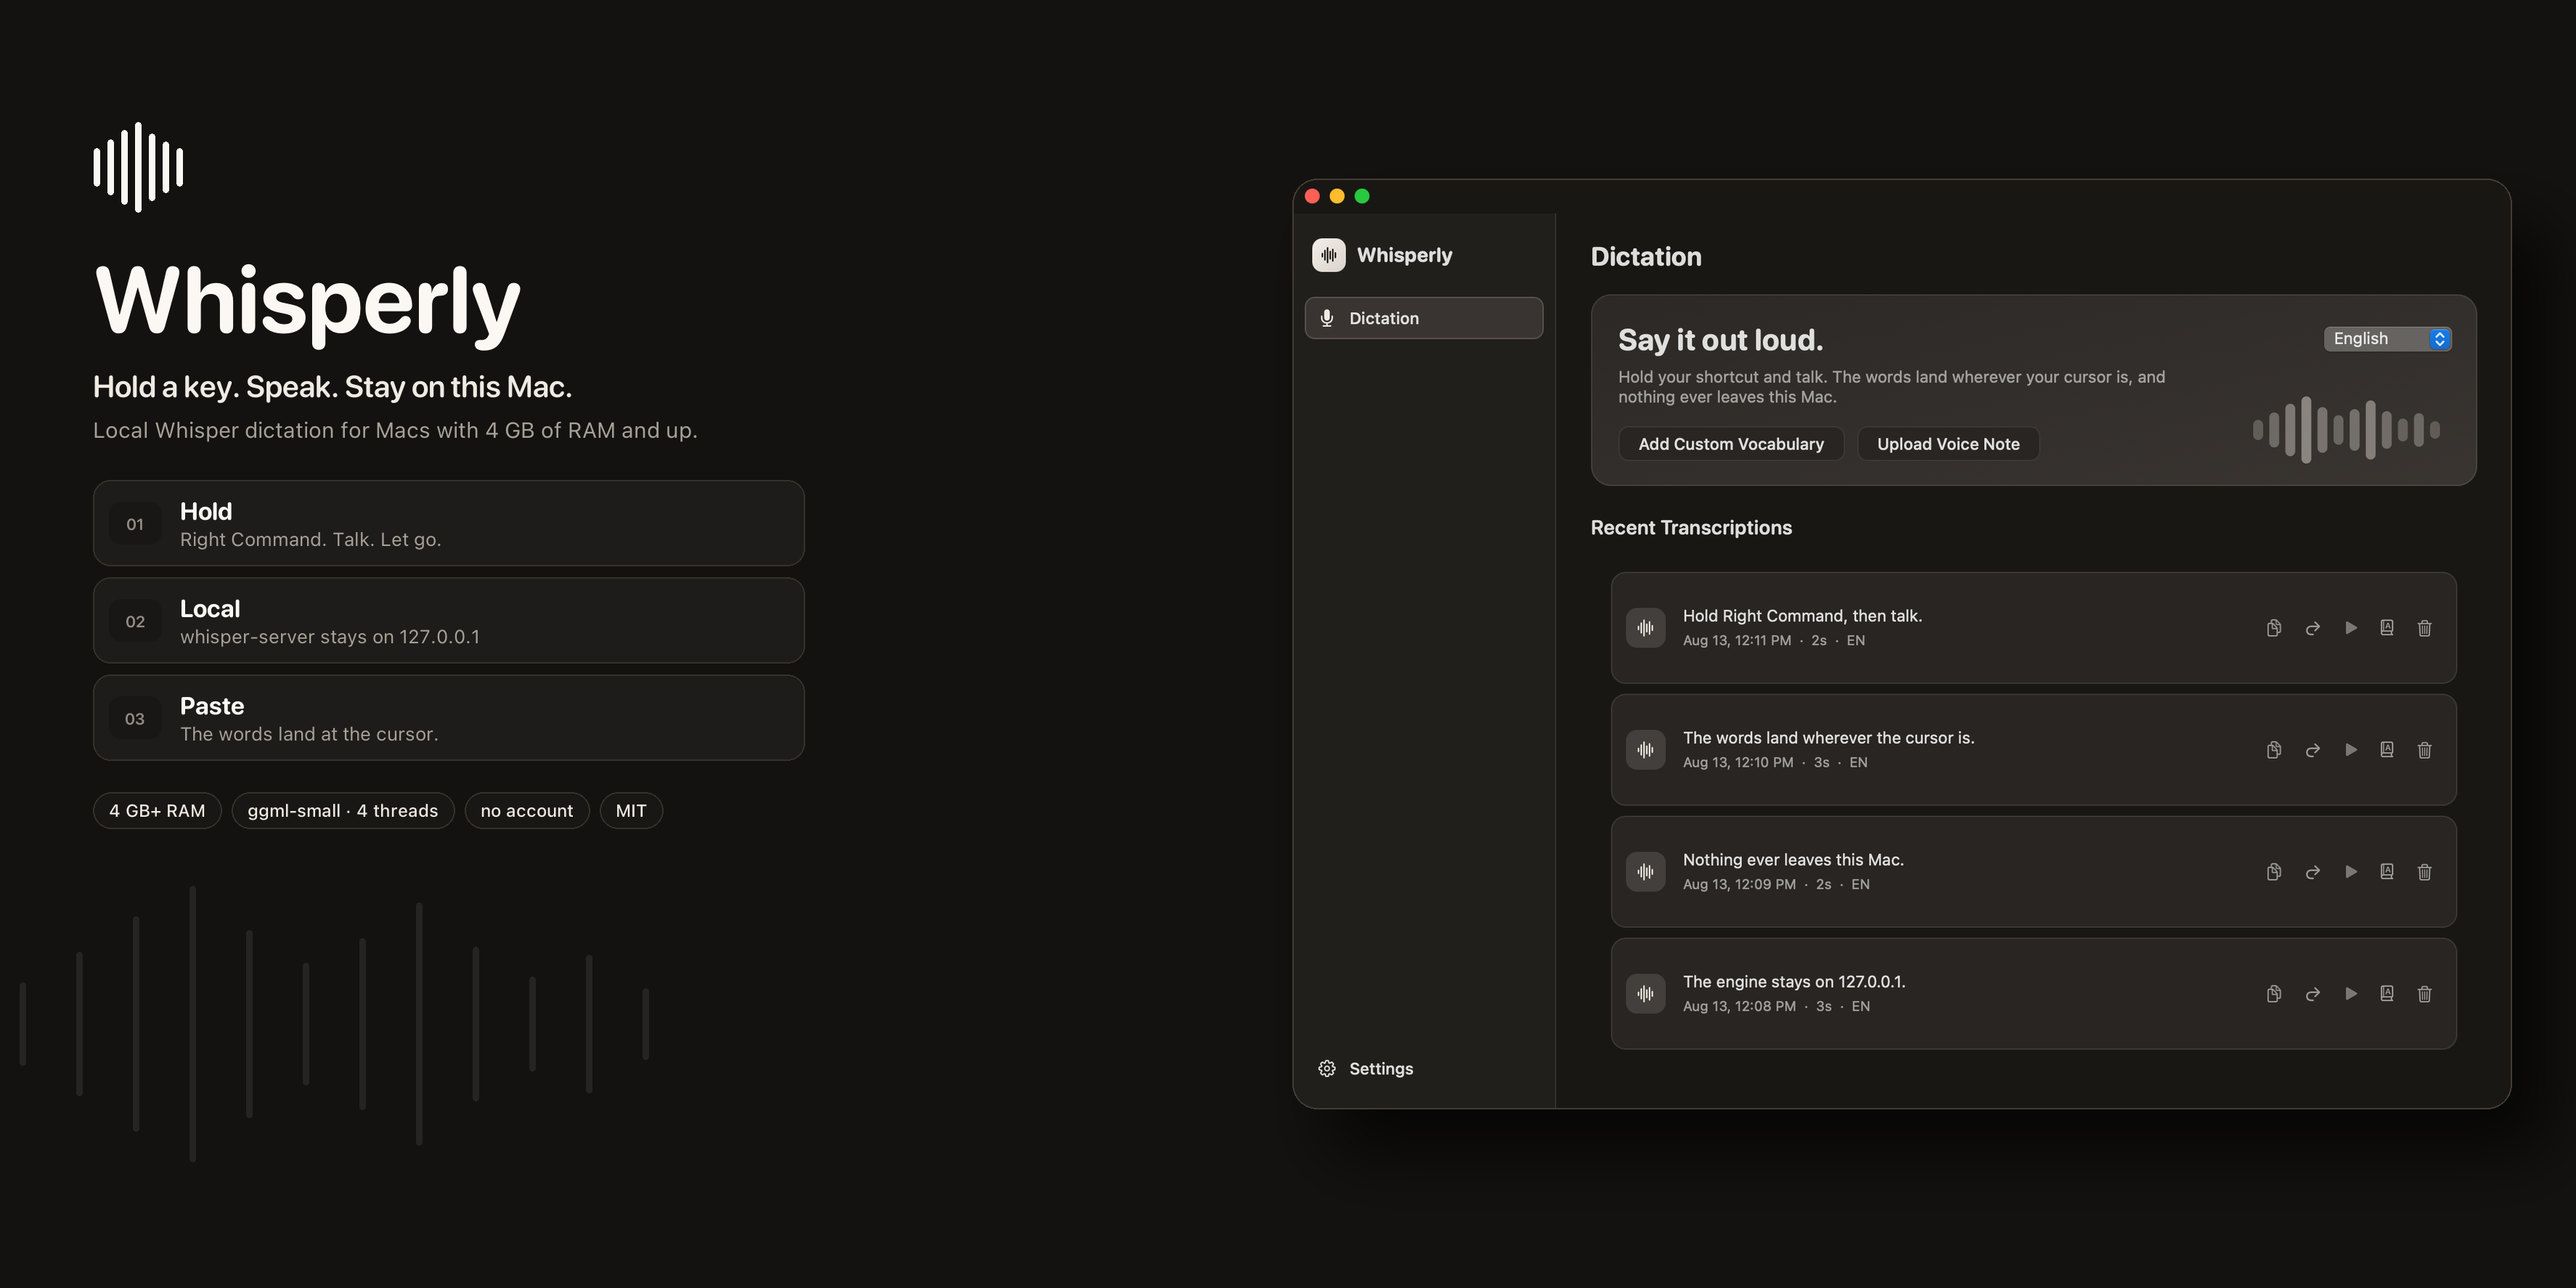
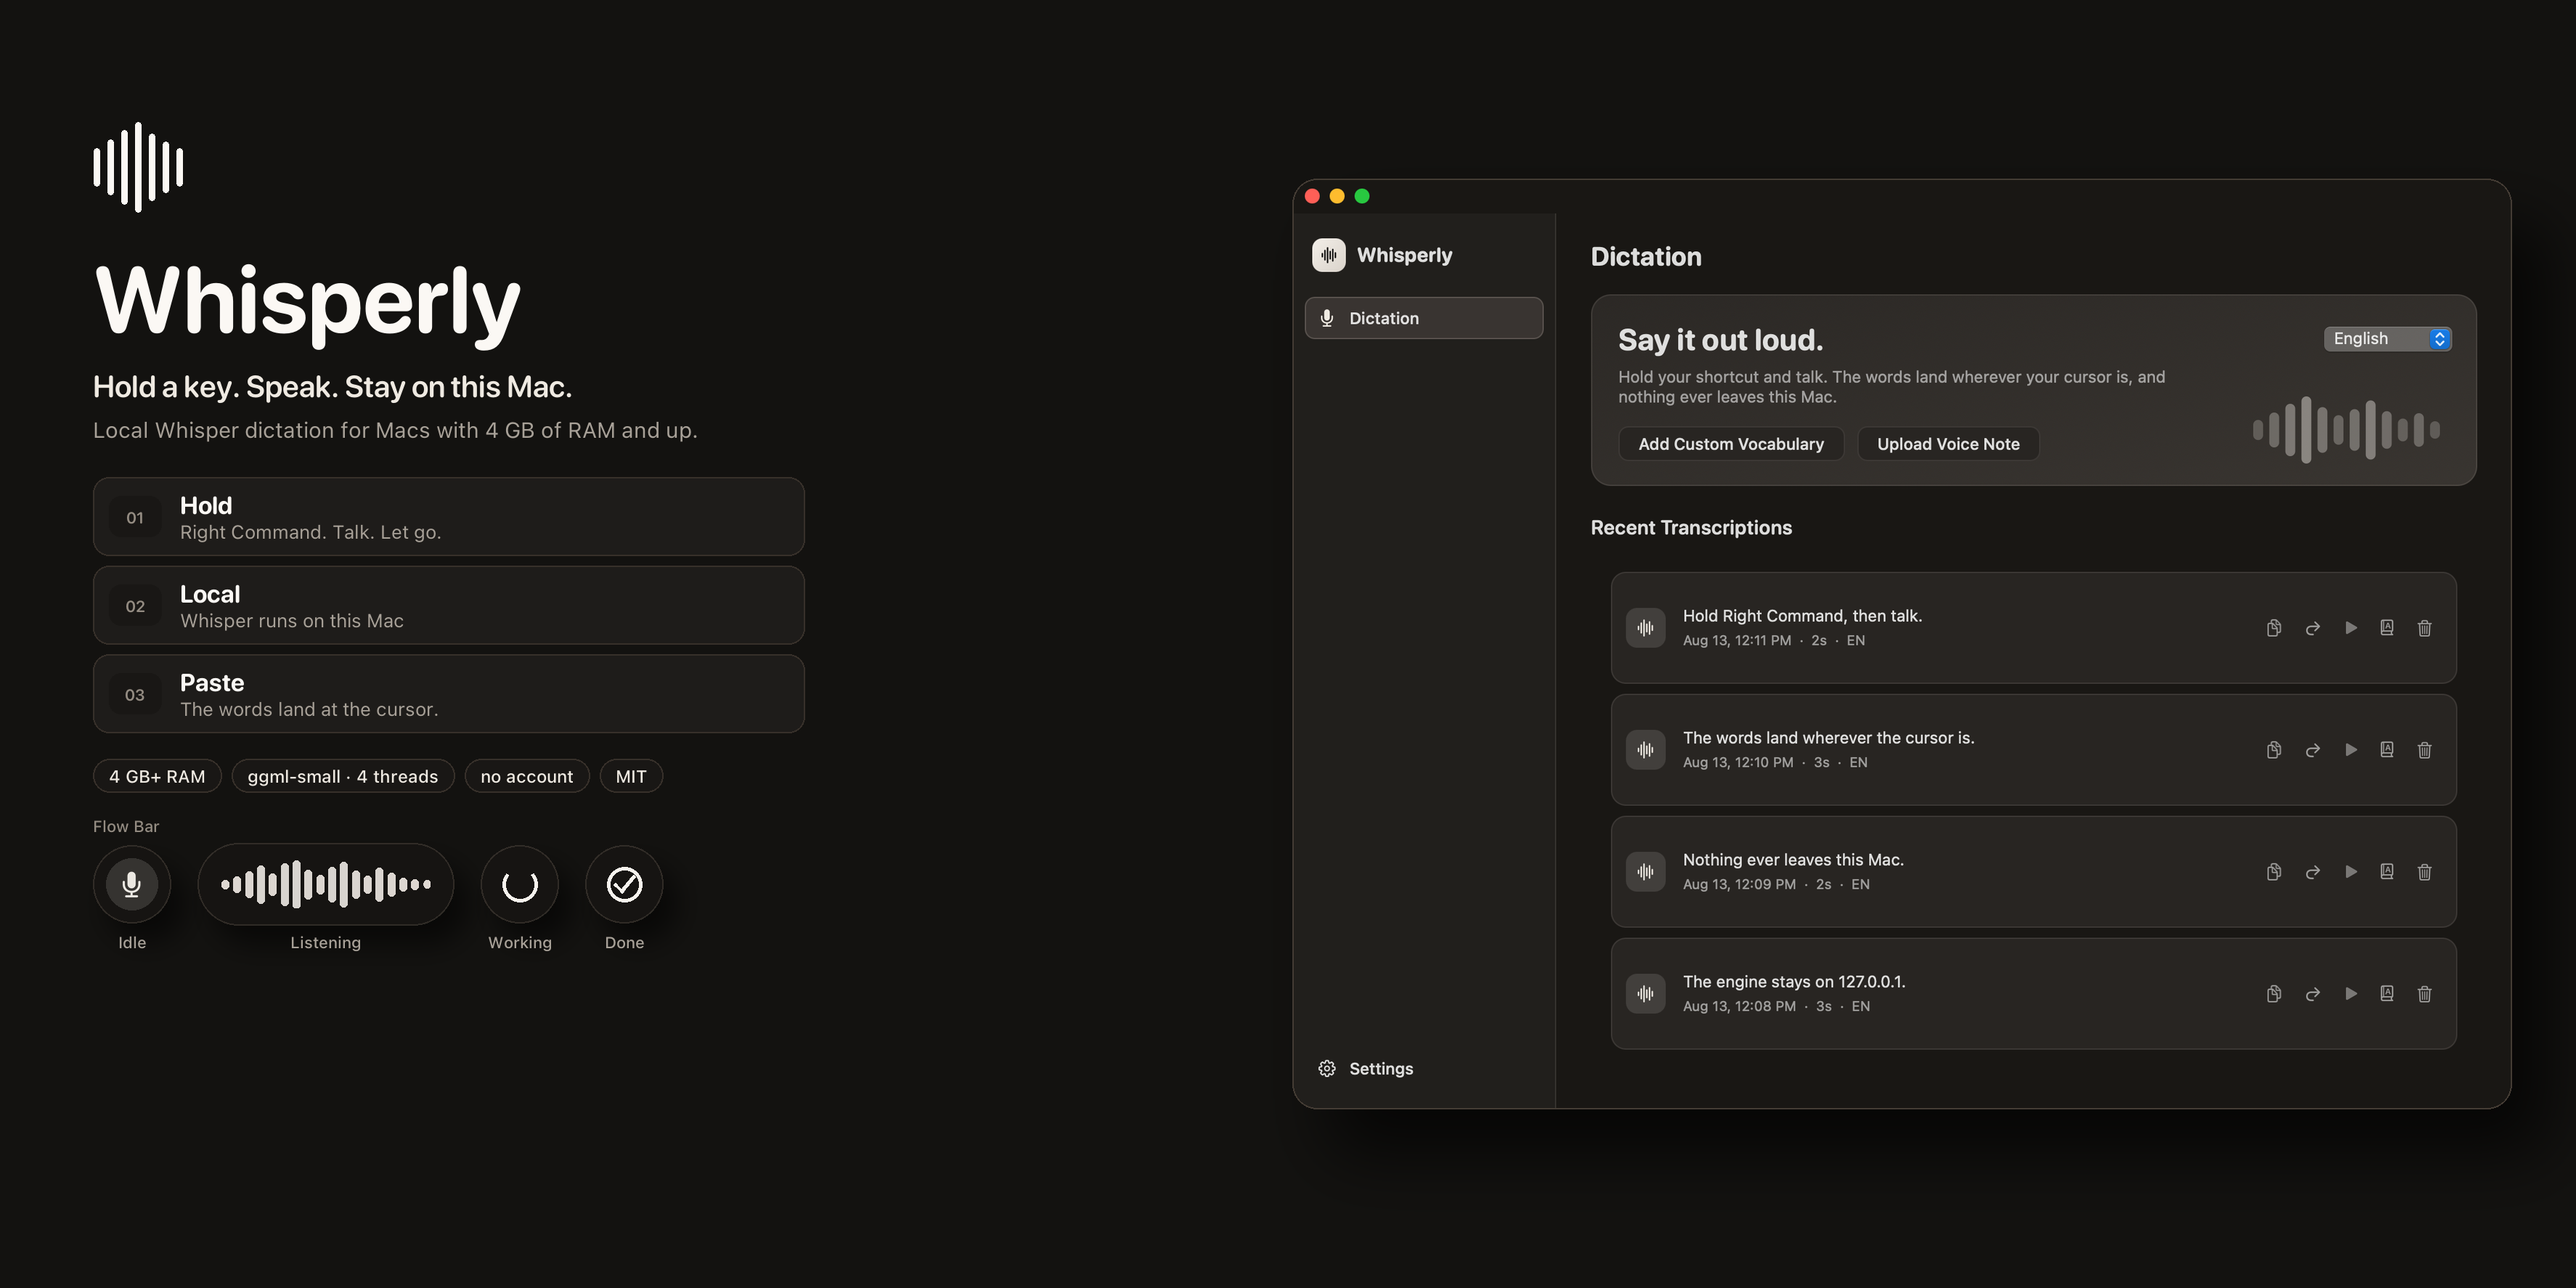
Name Whisper as the engine and show the real Flow Bar.
The badge was labeling the loopback address as the engine. 127.0.0.1 is
where Whisper listens, so the README now says engine Whisper. The banner
replaces the decorative waveform with the actual Flow Bar capsules:
idle, listening, working, and done.

Changed region(s): [[0.031, 0.372, 0.31, 0.7441], [0.186, 0.6821, 0.248, 0.7441]]

diff --git a/README.md b/README.md
@@ -3,7 +3,7 @@
 <p align="center">
   <a href="#quick-start"><img alt="macOS 14+" src="https://img.shields.io/badge/macOS-14%2B-111111?style=flat-square" /></a>
   <a href="#what-it-is"><img alt="4 GB of RAM and up" src="https://img.shields.io/badge/RAM-4%20GB%2B-111111?style=flat-square" /></a>
-  <a href="#privacy"><img alt="Loopback only" src="https://img.shields.io/badge/engine-127.0.0.1-111111?style=flat-square" /></a>
+  <a href="#privacy"><img alt="Engine is local Whisper" src="https://img.shields.io/badge/engine-Whisper-111111?style=flat-square" /></a>
   <a href="LICENSE"><img alt="MIT License" src="https://img.shields.io/badge/license-MIT-111111?style=flat-square" /></a>
 </p>
 
